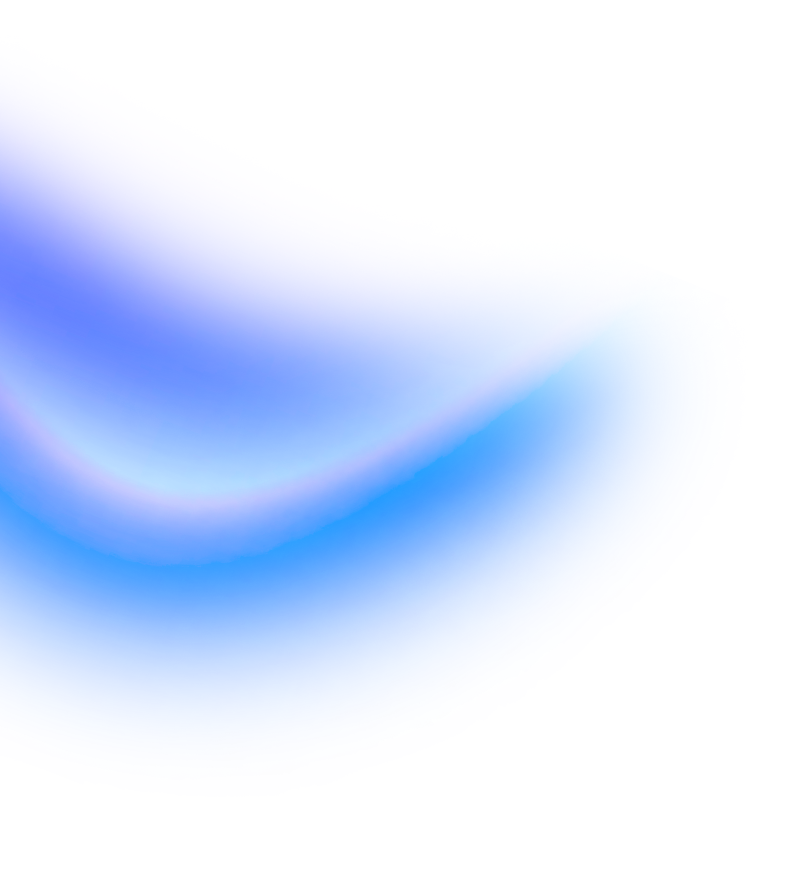
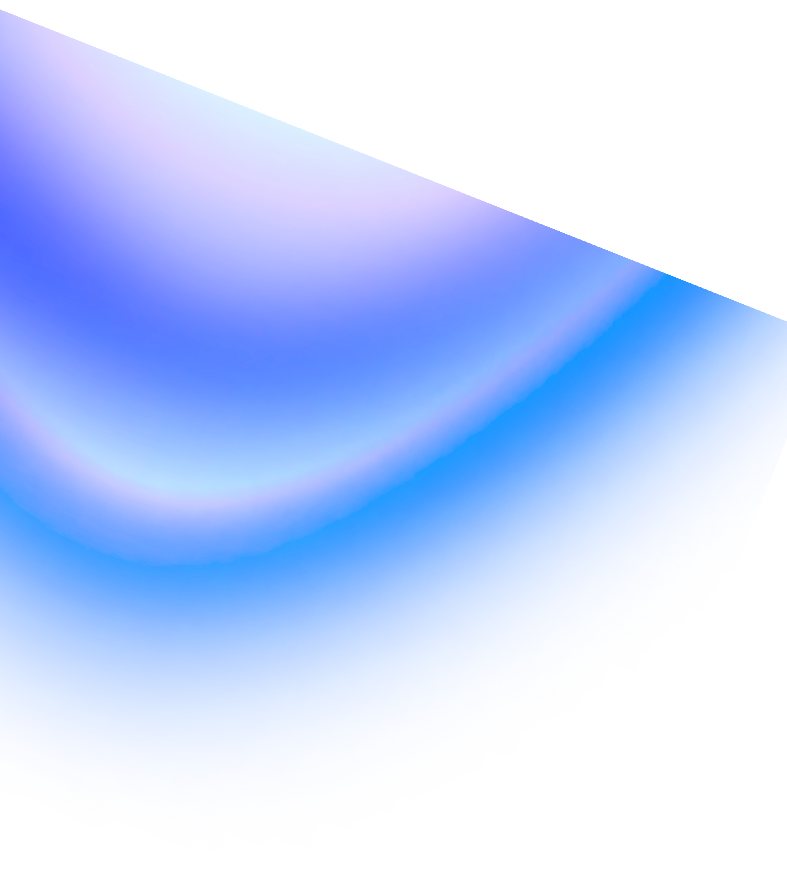
Styles improved

Changed region(s): [[0.0, 0.0, 1.0, 0.583]]

diff --git a/public/index.html b/public/index.html
@@ -51,7 +51,6 @@
           <img src="images/cybersixgill.png" alt="Cybersixgill Icon" />
         </div>
       </div>
-      <img src="images/bg_hori_last.png" alt="Swirl effect" class="swirl" />
     </section>
 
     <!-- AI Section -->
@@ -67,24 +66,17 @@
       <div class="devices">
         <div class="device device-behind">
           <img
-            src="images/device_outline.png"
+            src="images/device2.png"
             alt="Behind Device Outline"
-            class="device-outline"
+            class="device-outline_behind"
           />
-          <div class="screen-wrapper">
-            <img
-              src="images/page_auto.png"
-              alt="Behind Device Screen"
-              class="device-screen"
-            />
-          </div>
         </div>
 
         <div class="device device-front">
           <img
             src="images/device_outline.png"
             alt="Front Device Outline"
-            class="device-outline"
+            class="device-outline_front"
           />
           <div class="screen-wrapper">
             <div class="screen-content">
@@ -94,6 +86,8 @@
           </div>
         </div>
       </div>
+      <img src="images/grid.png" alt="Grid effect" class="grid" />
+      <img src="images/swirl_ai.png" alt="Swirl effect" class="swirl_ai" />
     </section>
 
     <div class="sectioncollab-wrapper">
@@ -133,6 +127,7 @@
     </div>
     <section class="cta-section">
       <div class="background-layers">
+        <img src="images/swirl_last.png" alt="Swirl effect" class="swirl_ai" />
         <img src="images/grid.png" alt="Grid effect" class="grid" />
       </div>
       <div class="cta-content">

diff --git a/public/css/style.css b/public/css/style.css
@@ -197,11 +197,10 @@ body {
   position: absolute;
   width: 300px;
   height: auto;
-  background-color: #03002f;
 }
 
 .device-behind {
-  top: 30px;
+  top: -95px;
   right: 0;
   z-index: 1;
 }
@@ -209,11 +208,10 @@ body {
 .device-front {
   top: 0;
   right: 200px;
-  z-index: 2;
+  z-index: 3;
 }
 
-.device-outline,
-.device-screen {
+.device-outline_behind {
   position: absolute;
   top: 0;
   left: 0;
@@ -224,14 +222,15 @@ body {
 .screen-content {
   position: absolute;
   top: 15%;
-  left: 10%;
+  left: 20%;
   width: 80%;
   color: #000;
+  margin-left: 20px;
 }
 
 .screen-content h3 {
-  margin-top: 167.11px;
-  font-size: 30px;
+  margin-top: 30%;
+  font-size: 28px;
   background: linear-gradient(
     74.66deg,
     #ff3366 9.7%,
@@ -243,8 +242,10 @@ body {
   text-align: left;
 }
 .screen-content p {
+  margin-top: 10%;
   font-size: 16px;
   line-height: 20.8px;
+  width: 70%;
   color: #ffffff;
 }
 
@@ -417,14 +418,12 @@ body {
   pointer-events: none;
 }
 
-.swirl {
+.swirl_ai {
   position: absolute;
-  margin-top: 33%;
   top: 0;
   left: 0;
   width: 100%;
-  height: 2160px;
-  z-index: 1;
+  z-index: 0;
 }
 
 .background-layers .grid {
@@ -432,6 +431,15 @@ body {
   top: 0;
   right: 0;
   width: 500px;
+  height: auto;
+  z-index: 2;
+}
+
+.ai-automation .grid {
+  position: absolute;
+  top: 0;
+  right: 300px;
+  width: 600px;
   height: auto;
   z-index: 2;
 }
